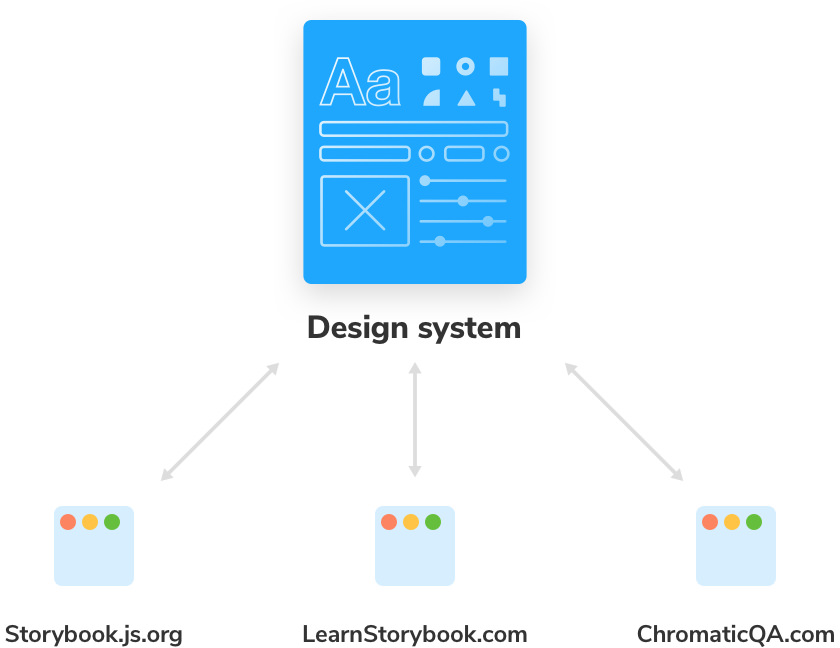
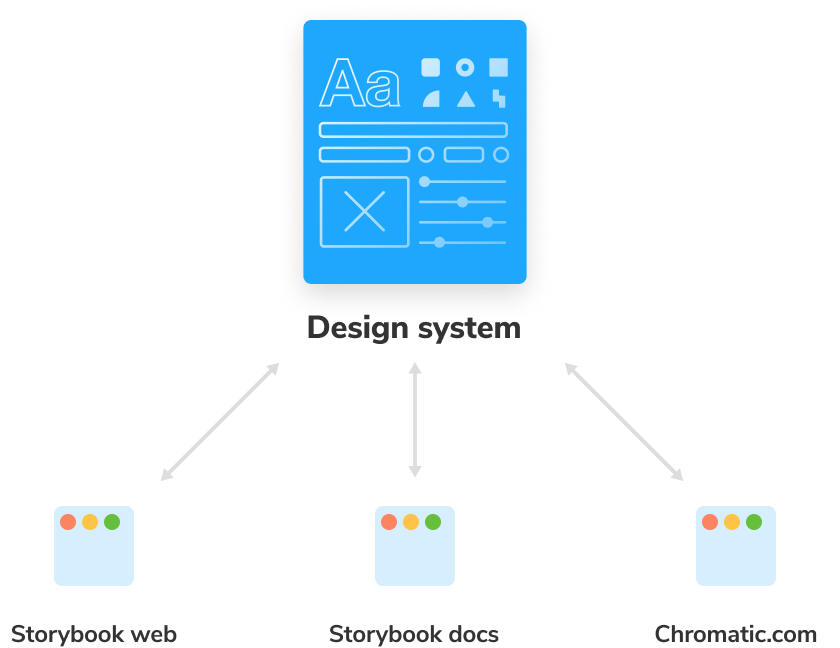
updates architecture image and username

diff --git a/content/design-systems-for-developers/react/en/distribute.md b/content/design-systems-for-developers/react/en/distribute.md
@@ -216,7 +216,7 @@ Then we’ll update the changelog and commit it:
 
 #### Authors: 1
 
-- [your-usermane](https://github.com/your-username)
+- [your-username](https://github.com/your-username)
 ```
 
 Let’s add that changelog to git. Note that we use `[skip ci]` to tell CI platforms to ignore these commits, else we end up in their build and publish loop.
